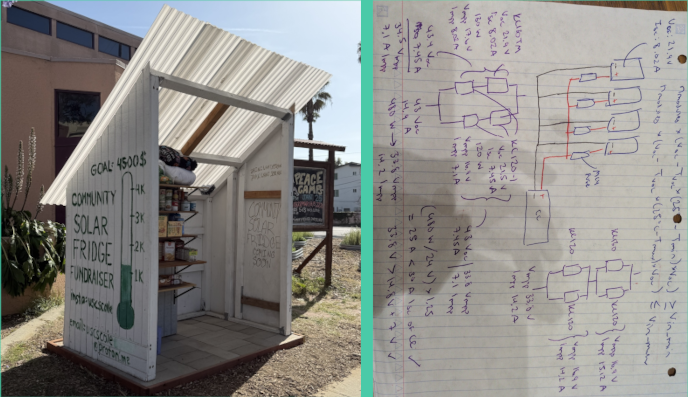
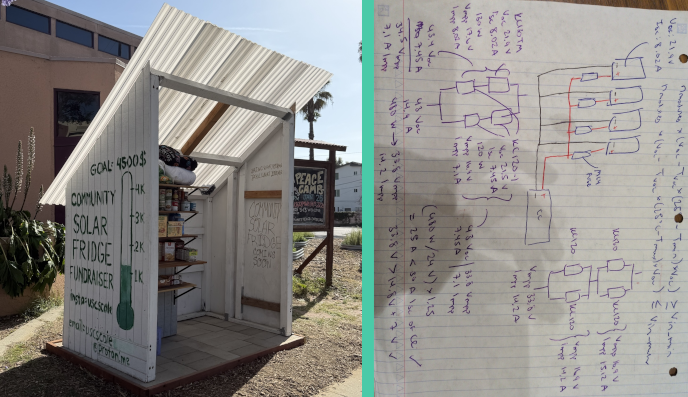
v1.0.1

diff --git a/index.html b/index.html
@@ -9,6 +9,7 @@
 		<title>Emanuel Marquez</title>
 		<meta charset="utf-8" />
 		<meta name="viewport" content="width=device-width, initial-scale=1, user-scalable=no" />
+		<link rel="icon" type="image/png" href="images/favicon.png" />
 		<link rel="stylesheet" href="assets/css/main.css" />
 	</head>
 	<body class="is-preload">
@@ -16,7 +17,7 @@
 		<!-- Header -->
 			<section id="header">
 				<header>
-					<span class="image avatar"><img src="images/avatar.png" alt="AI-poisoned portrait of mice-elf." /></span>
+					<span class="image avatar"><a href="https://www.badinternetbills.com/"><img src="images/avatar.png" alt="AI-poisoned portrait of mice-elf." /></a></span>
 					<h1 id="logo"><a href="#">Emanuel Marquez</a></h1>
 					<p>I want to change the world<br />
 					but most source is proprietary</p>
@@ -31,8 +32,8 @@
 				</nav>
 				<footer>
 					<ul class="icons">
-						<li><a href="https://github.com/emanumarqu" class="icon brands fa-github"><span class="label">Github</span></a></li>
 						<li><a href="mailto:site@emanuelmarquez.com" class="icon solid fa-envelope"><span class="label">Email</span></a></li>
+						<li><a href="https://github.com/emanumarqu" class="icon brands fa-github"><span class="label">GitHub</span></a></li>
 					</ul>
 				</footer>
 			</section>
@@ -46,7 +47,7 @@
 						<!-- One -->
 							<section id="one">
 								<div class="image main" data-position="center">
-									<img src="images/banner.png" alt="" />
+									<a href="https://keepandroidopen.org/"><img src="images/banner.png" alt="Landscape photo of keyboard." /></a>
 								</div>
 								<div class="container">
 									<header class="major">
@@ -54,7 +55,7 @@
 										<p>You found me<br />
 										ahem ... I mean I've been expecting you!</p>
 									</header>
-									<p>As-Salamu `alaykum friend, welcome to my little corner of the internet. Blog and full portfolio coming soon inshallah. Meanwhile, check out cool work my friends and I are up to.</p>
+									<p>As-Salamu `alaykum friend, welcome to my corner of the internet. Blog and full portfolio coming soon, inshallah. Meanwhile, check out some cool work my friends and I are up to.</p>
 									<section>
 										<header>
 											<h4>PGP Key Fingerprint</h4>
@@ -87,7 +88,7 @@
 									<!-- <p>Some current things I'm working on ...</p> -->
 									<div class="features">
 										<article>
-											<a href="https://www.instagram.com/p/DCYSTyux5GI/?img_index=1" class="image"><img src="images/freedge.png" alt="Photo of current USC SCALE's community dry pantry." /></a>
+											<a href="https://www.instagram.com/p/DCYSTyux5GI/?img_index=1" class="image"><img src="images/freedge.png" alt="Photos of current community dry pantry and fridge electrical plans." /></a>
 											<div class="inner">
 												<h4>Community Solar Fridge</h4>
 												<p>A solar-powered refrigerator designed to host free food for community members in south central Los Angeles.</p>
@@ -97,7 +98,7 @@
 											<a href="https://today.usc.edu/lightboards-online-learning-usc-nai-college-prep-program/" class="image"><img src="images/ee.png" alt="Photo of myself in USC's Trojan Marching Band's sousaphone section." /></a>
 											<div class="inner">
 												<h4>Electrical Engineering Degree</h4>
-												<p>My first undergraduate degree at the University of Southern California.</p>
+												<p>My first undergraduate degree at the University of Southern California. I plan to specialize in circuits, signals, and systems.</p>
 											</div>
 										</article>
 										<article>
